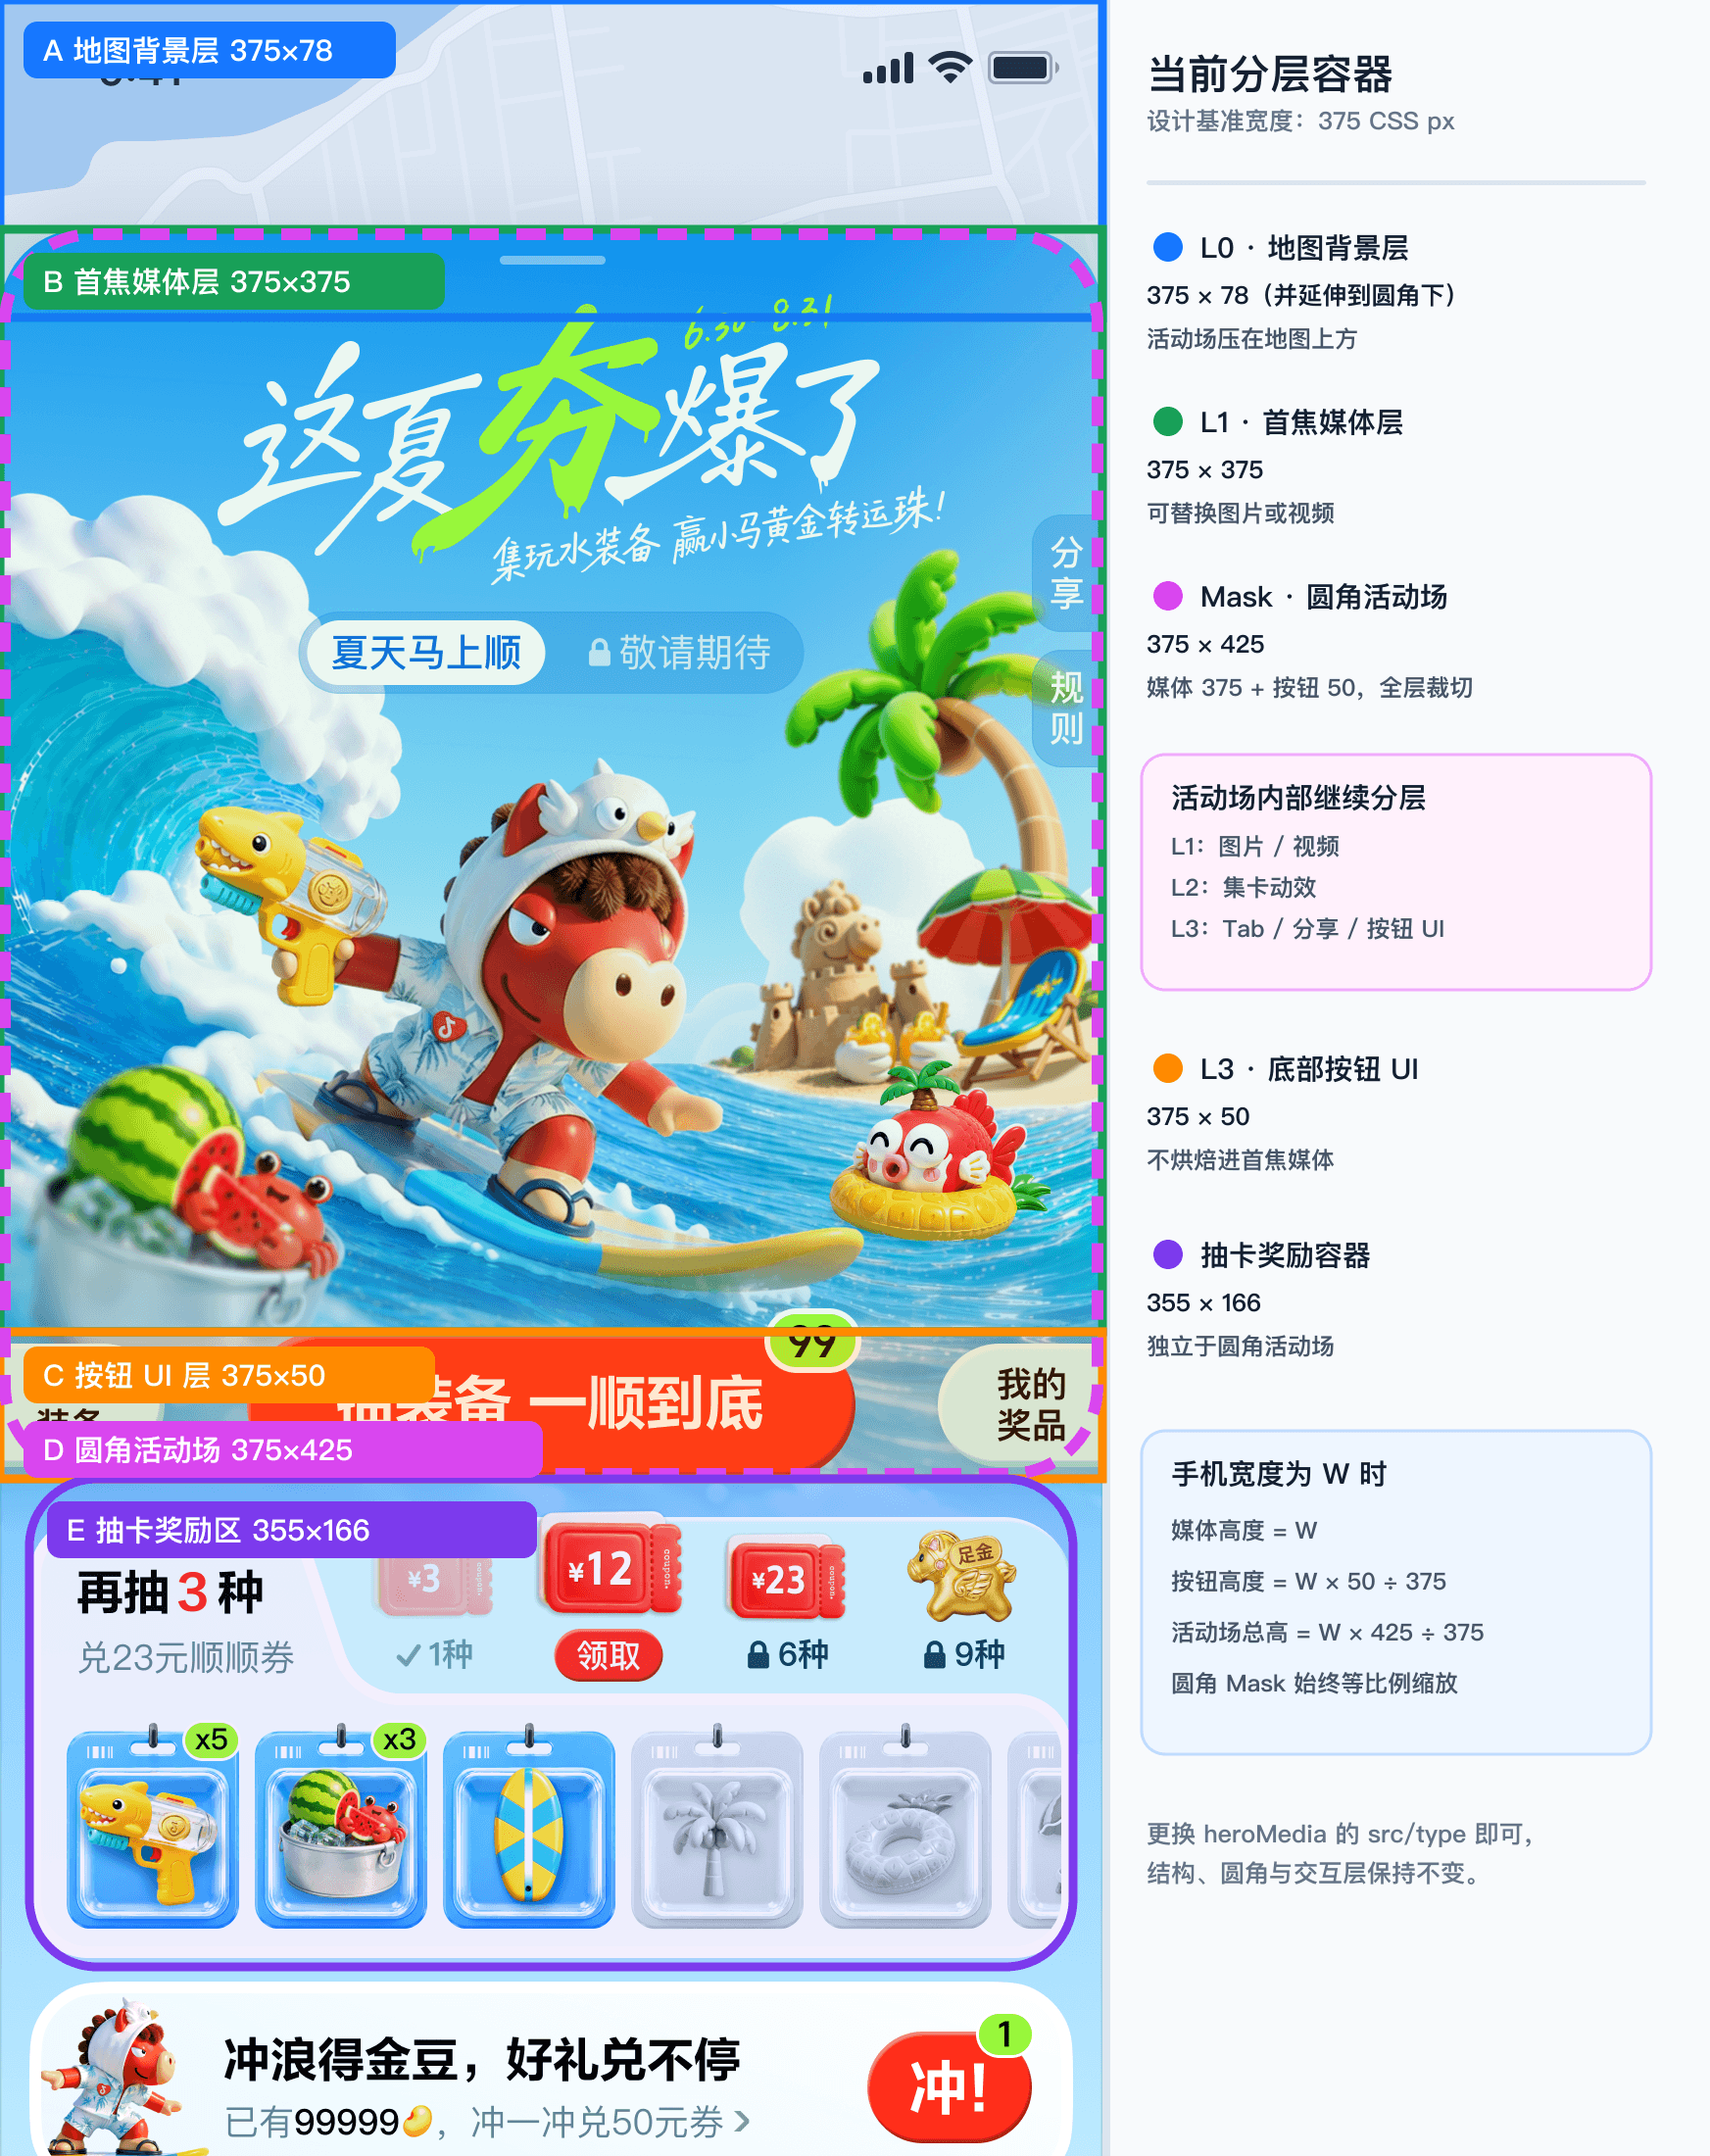
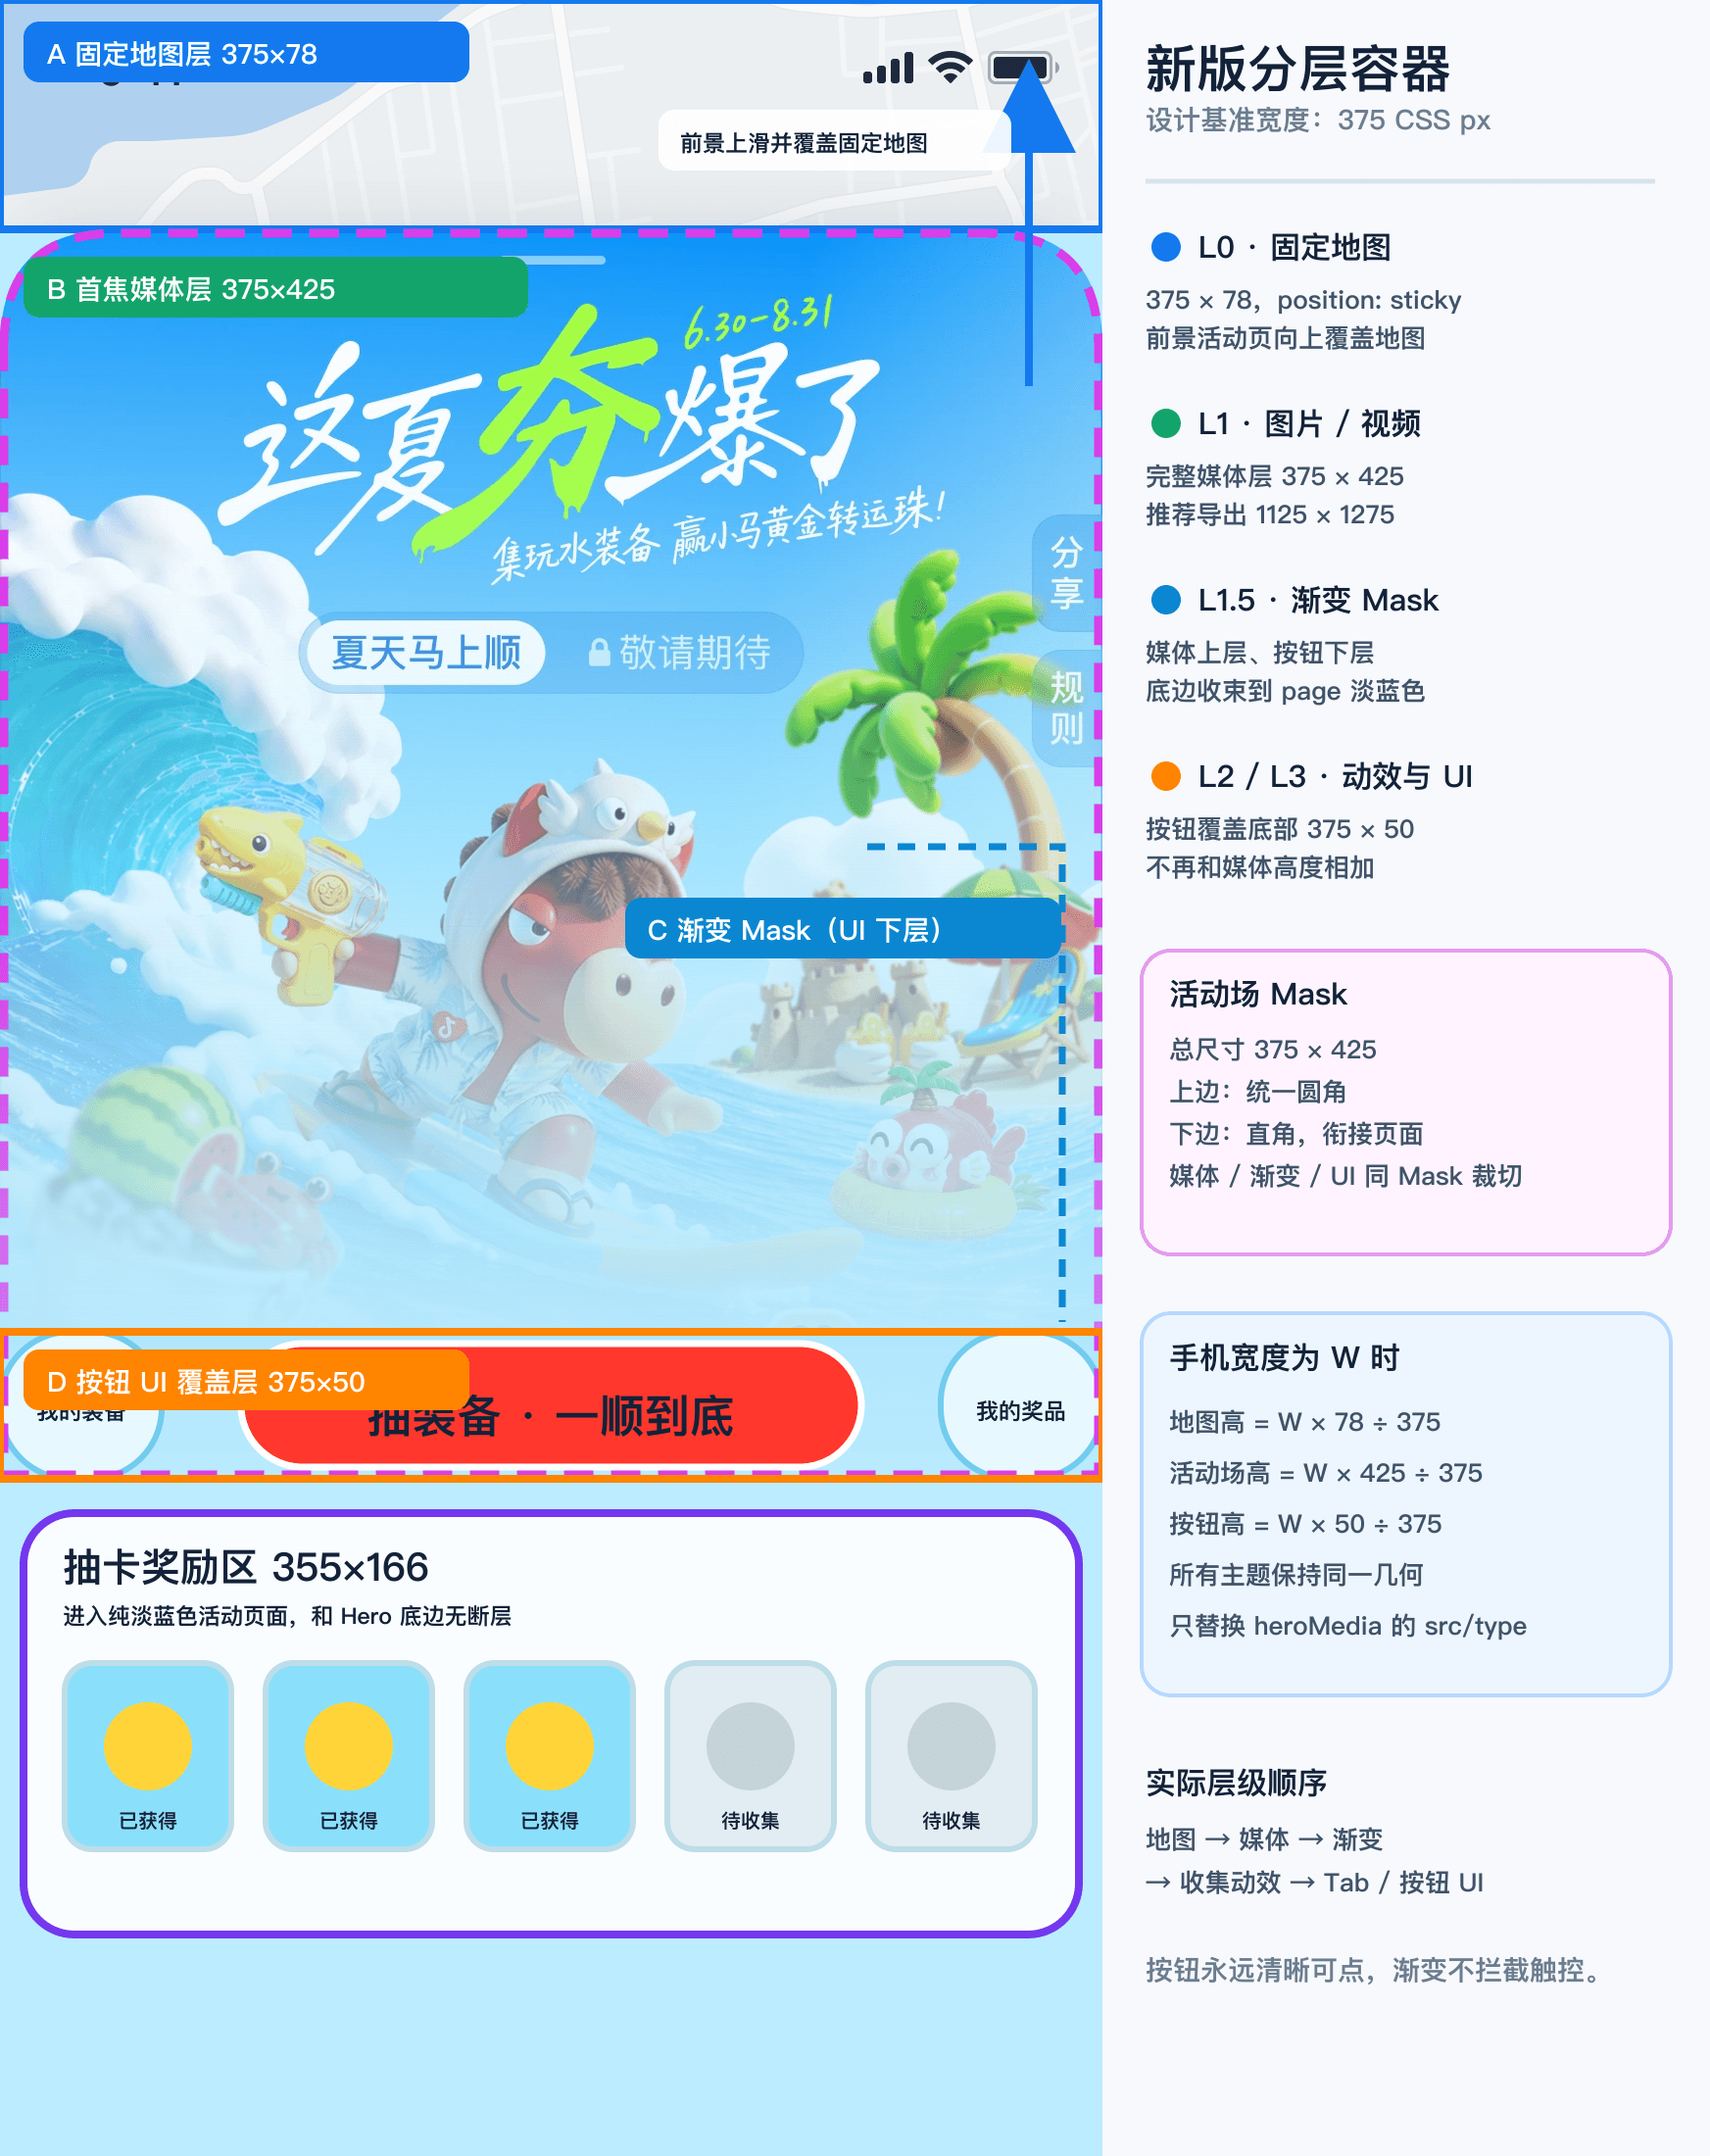
Blend sticky map into layered campaign hero

diff --git a/app/globals.css b/app/globals.css
@@ -55,7 +55,7 @@ button:focus-visible {
   max-width: 520px;
   min-height: 100vh;
   margin: 0 auto;
-  overflow: hidden;
+  overflow: clip;
   container-type: inline-size;
   background: var(--ink);
   box-shadow: 0 0 80px rgba(0, 0, 0, 0.55);
@@ -2973,6 +2973,7 @@ footer button {
 /* Unified campaign-stage geometry.
    Theme packs may change assets and tokens, but never these measurements. */
 .campaign-shell.campaign-template {
+  overflow: clip;
   background: var(--stage-page);
   color: var(--stage-text);
 }
@@ -2988,14 +2989,12 @@ footer button {
 .campaign-template .campaign-hero-stack {
   position: relative;
   width: 100%;
-  padding-top: 20.8%;
+  padding-top: 0;
 }
 
 .campaign-template .campaign-map-layer {
-  position: absolute;
+  position: sticky;
   top: 0;
-  right: 0;
-  left: 0;
   z-index: 0;
   width: 100%;
   aspect-ratio: 375 / 78;
@@ -3038,15 +3037,30 @@ footer button {
 }
 
 .campaign-template .campaign-hero-mask {
-  border-radius: var(--campaign-hero-radius);
+  border-radius: var(--campaign-hero-radius) var(--campaign-hero-radius) 0 0;
   overflow: hidden;
   transform: translateZ(0);
 }
 
+.campaign-template .campaign-hero-transition-layer,
 .campaign-template .campaign-hero-effect-layer,
 .campaign-template .campaign-hero-ui-layer {
   position: absolute;
   inset: 0;
+}
+
+.campaign-template .campaign-hero-transition-layer {
+  inset: 52% 0 0;
+  z-index: 1;
+  pointer-events: none;
+  background: linear-gradient(
+    180deg,
+    transparent 0%,
+    color-mix(in srgb, var(--stage-page) 12%, transparent) 18%,
+    color-mix(in srgb, var(--stage-page) 52%, transparent) 52%,
+    color-mix(in srgb, var(--stage-page) 88%, transparent) 80%,
+    var(--stage-page) 100%
+  );
 }
 
 .campaign-template .campaign-hero-effect-layer {
@@ -3084,11 +3098,11 @@ footer button {
 
 .campaign-template .campaign-hero-media {
   position: absolute;
-  inset: 0 0 auto;
+  inset: 0;
   z-index: 0;
   display: block;
   width: 100%;
-  height: 88.2353%;
+  height: 100%;
   overflow: hidden;
   background: var(--stage-hero);
 }

diff --git a/app/campaign-theme-packs.ts b/app/campaign-theme-packs.ts
@@ -25,8 +25,8 @@ export type CampaignThemePack = {
      */
     mapBackgroundImage?: string;
     /**
-     * Swappable image or video rendered inside the fixed 375:375 media layer.
-     * The surrounding 375:425 rounded mask and live UI never change.
+     * Swappable image or video rendered across the fixed 375:425 media layer.
+     * The transition mask and live UI are independent overlays.
      */
     heroMedia: CampaignHeroMedia;
     /** Optional transparent art used by the final reward tier. */
@@ -70,6 +70,8 @@ export const THEME_PACKS: Record<ThemeId, CampaignThemePack> = {
       heroMedia: {
         type: "image",
         src: "/figma/crops/hero-scene.webp",
+        fit: "contain",
+        position: "center top",
       },
       grandRewardImage: "/figma/reward-gold-horse.webp",
     },
@@ -103,6 +105,8 @@ export const THEME_PACKS: Record<ThemeId, CampaignThemePack> = {
       heroMedia: {
         type: "image",
         src: "/theme-assets/night/hero-scene.webp",
+        fit: "contain",
+        position: "center top",
       },
     },
     colors: {

diff --git a/app/campaign-stage.tsx b/app/campaign-stage.tsx
@@ -178,6 +178,11 @@ export function CampaignStage({
             <CampaignHeroMediaSlot media={pack.assets.heroMedia} />
           </div>
 
+          <div
+            className="campaign-hero-transition-layer"
+            aria-hidden="true"
+          />
+
           <div className="campaign-hero-effect-layer" aria-hidden="true">
             <div className="hero-progress-visual">{heroCards}</div>
           </div>

diff --git a/THEME-PACKS.md b/THEME-PACKS.md
@@ -1,6 +1,6 @@
 # CampaignStage 主题包使用说明
 
-`CampaignStage` 是活动首屏的统一容器。首屏采用固定分层：底部地图背景、前景圆角活动场、首焦媒体、动效层和实时 UI 层。主题 Tab、主操作按钮、奖励档位和收集卡槽都由同一套组件与共享 CSS 负责排版。
+`CampaignStage` 是活动首屏的统一容器。首屏采用固定分层：底部静止地图、前景活动场、首焦媒体、渐变过渡、动效层和实时 UI 层。主题 Tab、主操作按钮、奖励档位和收集卡槽都由同一套组件与共享 CSS 负责排版。
 
 主题包只负责两类内容：
 
@@ -45,7 +45,7 @@ heroMedia: {
 }
 ```
 
-视频会自动静音、循环、行内播放，并与图片共用同一个圆角 Mask。
+视频会自动静音、循环、行内播放，并与图片共用同一个上圆角、下直角 Mask。
 
 替换后不需要修改 `CampaignStage`、页面 JSX 或共享 CSS。
 
@@ -160,20 +160,23 @@ public/
 - 推荐导出尺寸：`1125 × 234`
 - 页面显示比例：`375 : 78`
 - 可以是 PNG、WebP 或 AVIF。
-- 地图位于圆角活动场下面；活动场顶部圆角外露出的仍是地图层。
+- 地图位于活动场下面；活动场顶部圆角外露出的仍是地图层。
+- 地图层使用 `sticky` 停在视口顶部；页面向上滑动时，前景活动内容会覆盖它，而不是地图跟随前景一起移动。
 - 可以不提供图片，但固定地图空间仍会存在。
 - 不提供图片时使用 `colors.mapBackground`。
 
-### 圆角活动场与 Hero
+### 活动场、Hero 与渐变层
 
-- 圆角活动场设计尺寸：`375 × 425`。
-- 其中 Hero 媒体槽：`375 × 375`；底部实时按钮层：`375 × 50`。
-- 图片标准导出尺寸：`1125 × 1125`。
-- 视频建议使用 `1 : 1` MP4/WebM，并提供同尺寸 Poster。
+- 活动场设计尺寸：`375 × 425`，只保留顶部圆角，底部为直角。
+- Hero 媒体槽同样是完整的 `375 × 425`，不是媒体 `375` 加按钮 `50` 的上下相加结构。
+- 底部实时按钮层显示高度为 `375 × 50`，叠加在 Hero 媒体与渐变层上，不占用额外高度。
+- 图片标准导出尺寸：`1125 × 1275`（3×）；视频建议使用相同的 `375 : 425` 比例，并提供同尺寸 Poster。
+- 现有 `1125 × 1125` 方图也可以继续使用：配置 `fit: "contain"` 和 `position: "center top"`，底部延展区由 Hero 底色和渐变层衔接。
 - 标题、副标题、活动日期和主视觉建议在设计侧合成为一张图片。
 - 默认使用 `cover` 填满圆角 Mask；横版素材如需完整展示，可配置 `fit: "contain"`。
 - 关键人物、Logo 和文字应避开 Tab、右侧分享/规则入口以及底部主操作区。
-- 更换图片或视频不会改变圆角、尺寸、Tab、按钮或抽卡动效。
+- 渐变 Mask 位于媒体之上、按钮和所有实时 UI 之下，并在底边过渡到 `colors.page`。
+- 更换图片或视频不会改变上圆角、底部直角、渐变、尺寸、Tab、按钮或抽卡动效。
 
 ### 收集卡
 
@@ -194,7 +197,7 @@ public/
 
 以下内容只能在 `CampaignStage` 或它的共享 CSS 中维护：
 
-- 地图层、圆角活动场、Hero 媒体层、按钮栏和奖励面板的高度与比例。
+- 地图层、活动场、Hero 媒体层、渐变层、按钮栏和奖励面板的高度与比例。
 - Tab、分享/规则入口和主按钮的位置。
 - 左右入口与主按钮的列宽。
 - 奖励档位数量对应的栅格布局。
